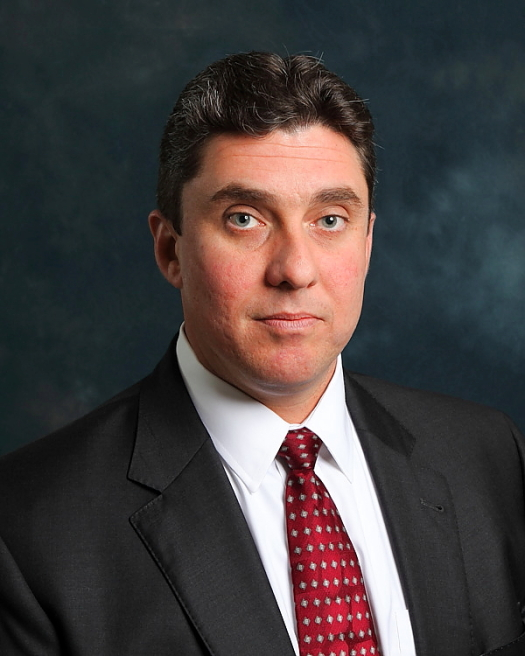
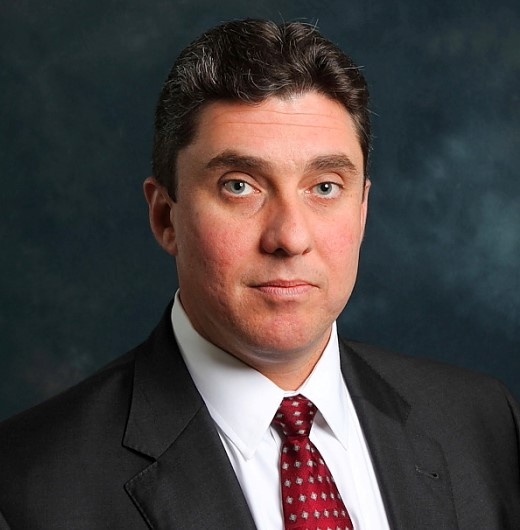
added text content and boarders

diff --git a/Bike_Sharing_Data/templates/index.html b/Bike_Sharing_Data/templates/index.html
@@ -165,10 +165,10 @@
                         </div>
                         <div class="col-lg-6">
                             <div class="about-content mt-45">
-                                <h4 class="about-welcome">About Us </h4>
-                                <h3 class="about-title mt-10">Reasons to choose</h3>
-                                <p class="mt-25">Lorem Ipsum is simply dummy text of the printing and typesetting industry. Lorem Ipsum has been the industry's standard dummy text ever since the 1500s, when an unknown printer took a galley of type and scrambled it to make a type specimen book. It has survived not only five centuries, but also the leap into electronic typesetting, remaining essentially unchanged. It was popularised in the 1960s with the release of Letraset sheets containing Lorem Ipsum passages
-                                    <br> <br>It was popularised in the 1960s with the release of Letraset sheets containing Lorem Ipsum passages, and more recently with desktop publishing software like Aldus PageMaker including versions of Lorem Ipsum.</p>
+                                <h4 class="about-welcome">About Austin B Cycle </h4>
+                                <h3 class="about-title mt-10">What does the data say?</h3>
+                                <p class="mt-25">Austin BCycle is public bike share system that rolled into Austin in December 2013. The system is owned by the City of Austin and operated by the locl 501(c)(3) non-profit Bike Share of Austin. Austin BCycle immediately broke national records for check outs during SXSW, making it one of the most successful bike sharing programs in the country. There are currently 75 BCycle stations around downtown Austin, in all the places you want to go!
+                                    <br> <br>Exploring the data we find a few interesting trends.  Austin B Cycle has set up kiosks at strategic location throughout the city, primarily focusing on the downtown area.  Of the membership otions offered the 24-hour which is later described as the Walk Up option is by far the most popular suggesting that individuals are primarliy not repeat users.  THe peak times of year for checkouts is seen to be March with almost  6,000 more checkouts than any other month of the year, this coresponds nicely with the SXSW Music Festival.  We also took a look at which day of the week was most popular and no big surprises here Friday - Sunday are the winners for bike checkouts.</p>
                             </div> <!-- about content -->
                         </div>
                     </div> <!-- row -->
@@ -185,6 +185,10 @@
             <section id="spatial_analysis" class="about-area pt-80 pb-130">
                 <div class="container">
                     <div class="row">
+                        <h4>Where are the hotspots?</h4>
+                        <p class="mt-25">Use the layer tool located at the top right of the map to explore kiosk location and usagae.</p>
+                    </div>
+                    <div class="row">
                         <div class="col-lg-12">
                                  <div id="map"></div> 
                         
@@ -200,8 +204,13 @@
         
             <section id="demand_analysis" class="about-area pt-80 pb-130">
                 <div class="container">
+                        <div class="row">
+                                <h4>When are the hot times?</h4>
+                                <p class="mt-25">Use the Time Series drop down to explore when the peak checkout times are.</p>
+                            </div>
                     <div class="row">
                         <div class="col-lg-12">
+                            <option  disabled selected>Select Time Series:</option>
                             <select id="selDataset" onchange="getData(this.value)"></select>
                             <div id="bar"></div>
                         </div>
@@ -216,8 +225,13 @@
         
             <section id="membership_analysis" class="about-area pt-80 pb-130">
                 <div class="container">
+                        <div class="row">
+                                <h4>Who is using B Cycle?</h4>
+                                <p class="mt-25">Use the Year drop down to explore the most popular memberships.</p>
+                            </div>
                     <div class="row">
                         <div class="col-lg-12">
+                            <option  disabled selected>Select Year:</option>
                             <select id="selDataset2" onchange="optionChanged(this.value)"></select>
                             <div id="pie"></div>
                         </div>
@@ -267,7 +281,7 @@
                         <div class="col-lg-4 col-md-6 col-sm-6">
                             <div class="single-team text-center mt-30 wow fadeInUp" data-wow-duration="1.5s" data-wow-delay="1.2s">
                                 <div class="team-image">
-                                    <img src="../static/images/team/jh.jpg" alt="Team">
+                                    <img src="../static/images/team/jh2.jpg" alt="Team">
                                 </div>
                                 <div class="team-content">
                                     <h4 class="team-name"><a href="#">John Hawkins</a></h4>

diff --git a/Bike_Sharing_Data/static/css/style.css b/Bike_Sharing_Data/static/css/style.css
@@ -1361,7 +1361,52 @@ p.form-message.error {
     color: #EB3656;
     background-color: #fff; }
 
+.team-image {
+  width: 300px;
+  height: 300px;
+}
+
 #map {
   width: 100%;
   height: 600px;
+}
+
+#spatial_analysis {
+  border-style: solid;
+  border-width: 5px;
+  padding-top: 20px;
+  padding-bottom: 20px;
+  padding-right: 5px;
+  padding-left: 5px;
+  border-right-width: 10px;
+  border-left-width: 10px;
+  margin-right: 100px;
+  margin-left: 100px;
+}
+#demand_analysis {
+  border-style: solid;
+  border-width: 5px;
+  padding-top: 20px;
+  padding-bottom: 20px;
+  padding-right: 5px;
+  padding-left: 5px;
+  border-right-width: 10px;
+  border-left-width: 10px;
+  margin-top: 15px;
+  margin-right: 100px;
+  margin-left: 100px;
+}
+
+#membership_analysis {
+  border-style: solid;
+  border-width: 5px;
+  padding-top: 20px;
+  padding-bottom: 20px;
+  padding-right: 5px;
+  padding-left: 5px;
+  border-right-width: 10px;
+  border-left-width: 10px;
+  margin-top: 15px;
+  margin-right: 100px;
+  margin-left: 100px;
 }
